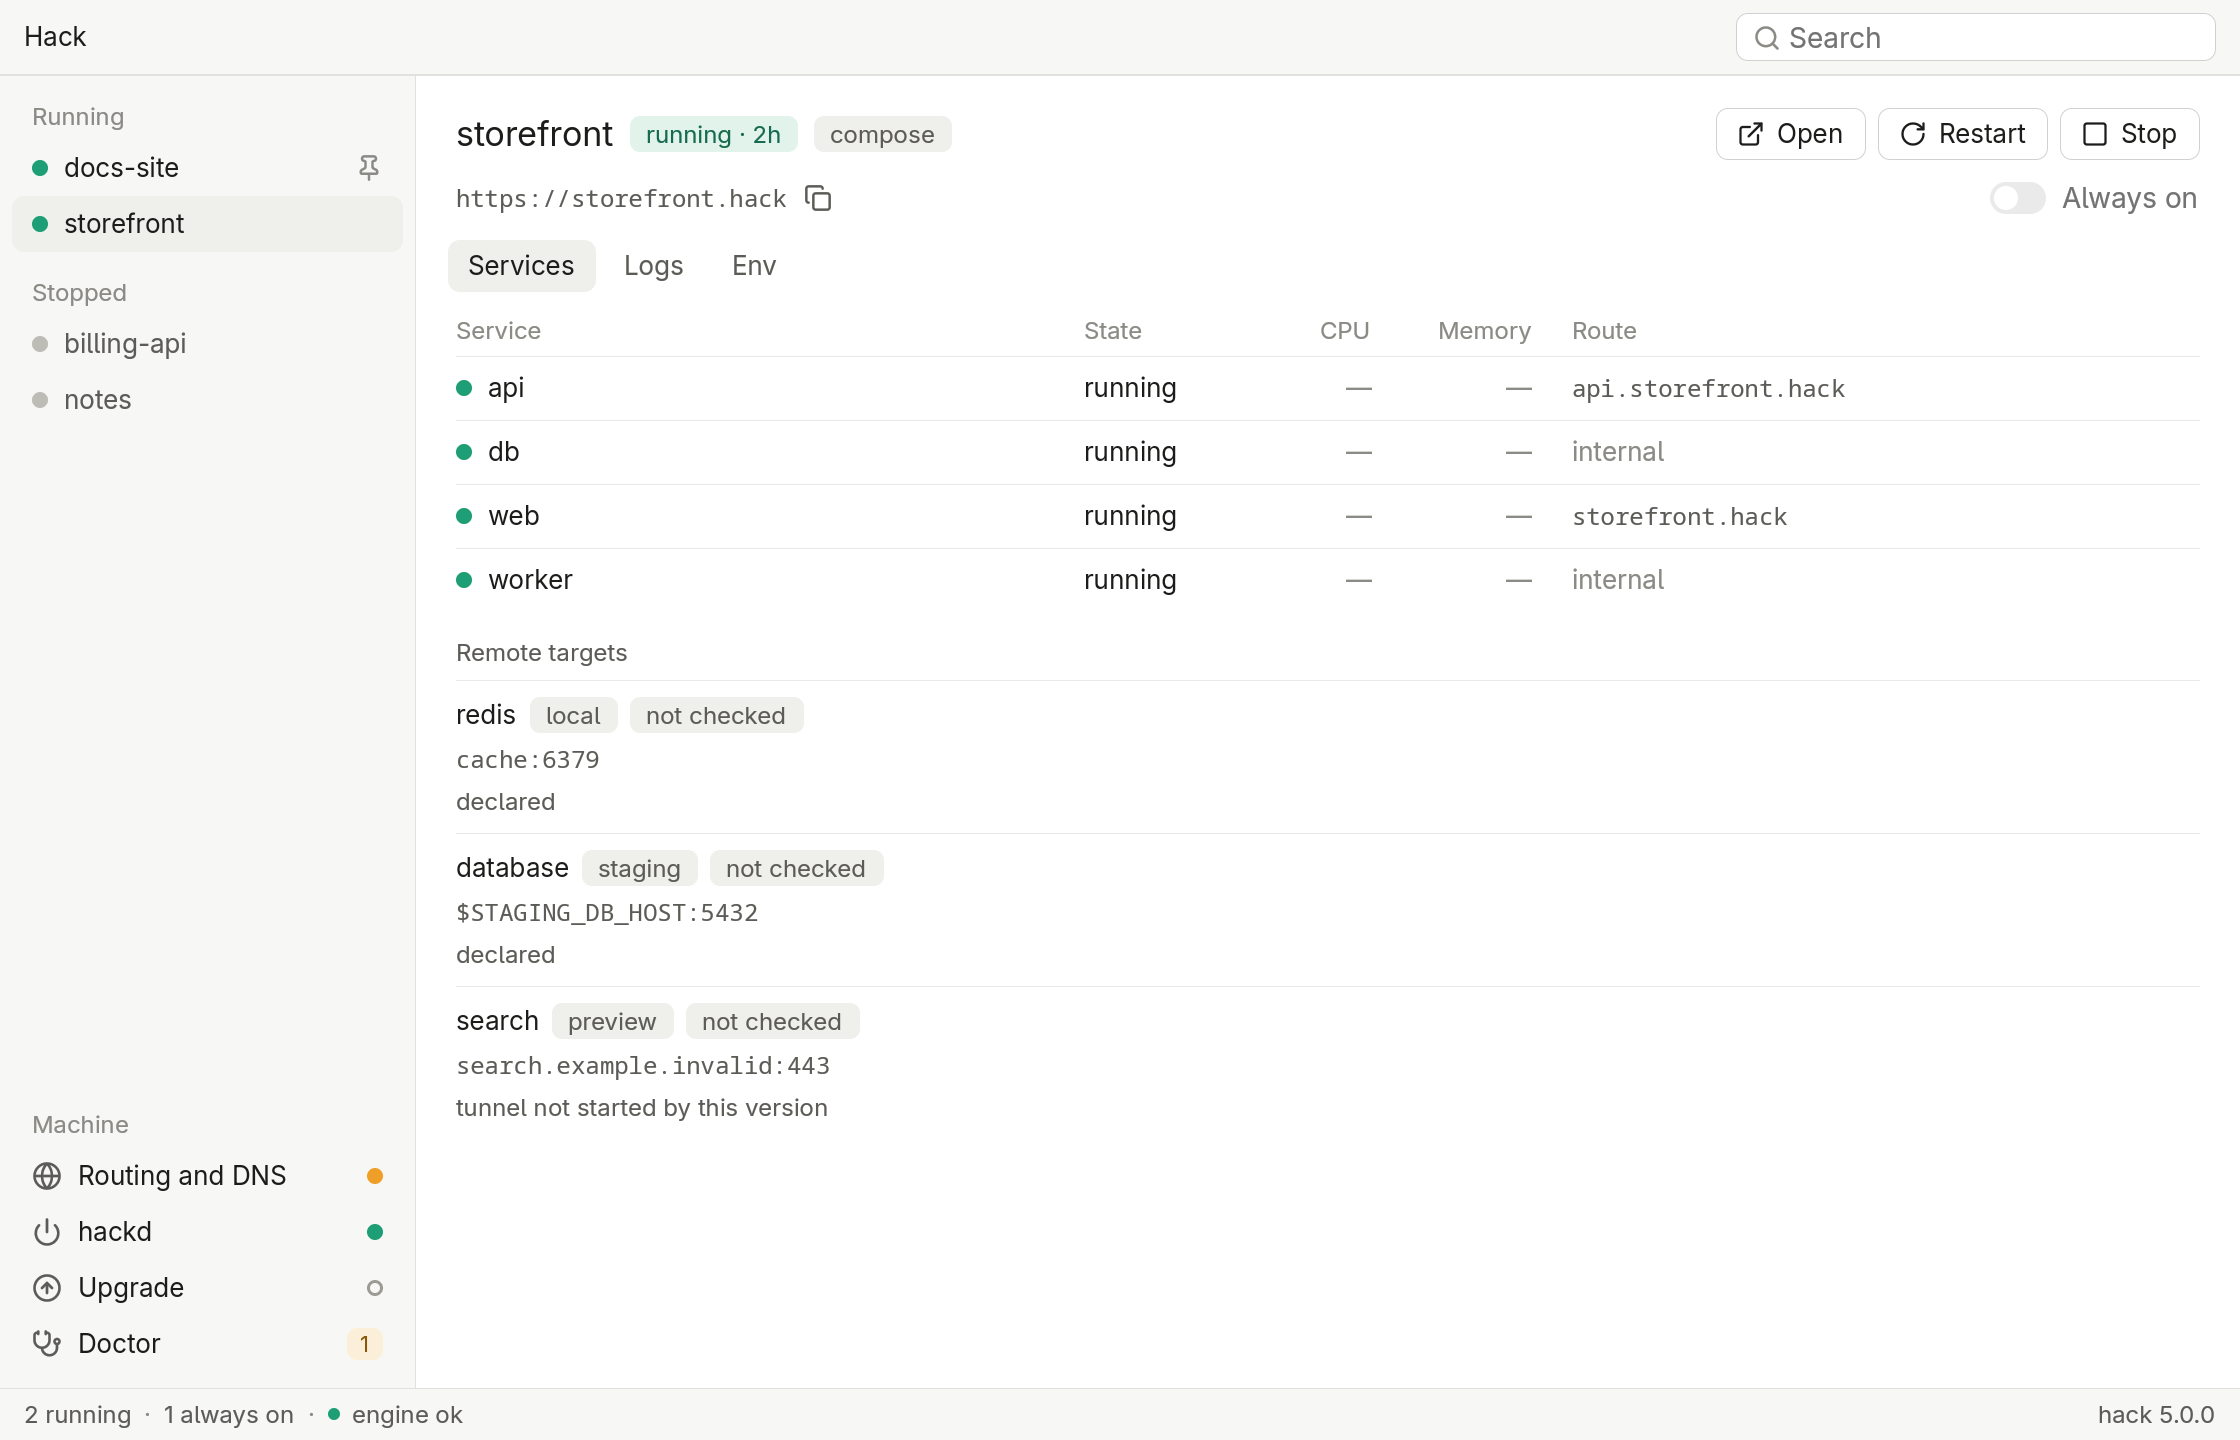
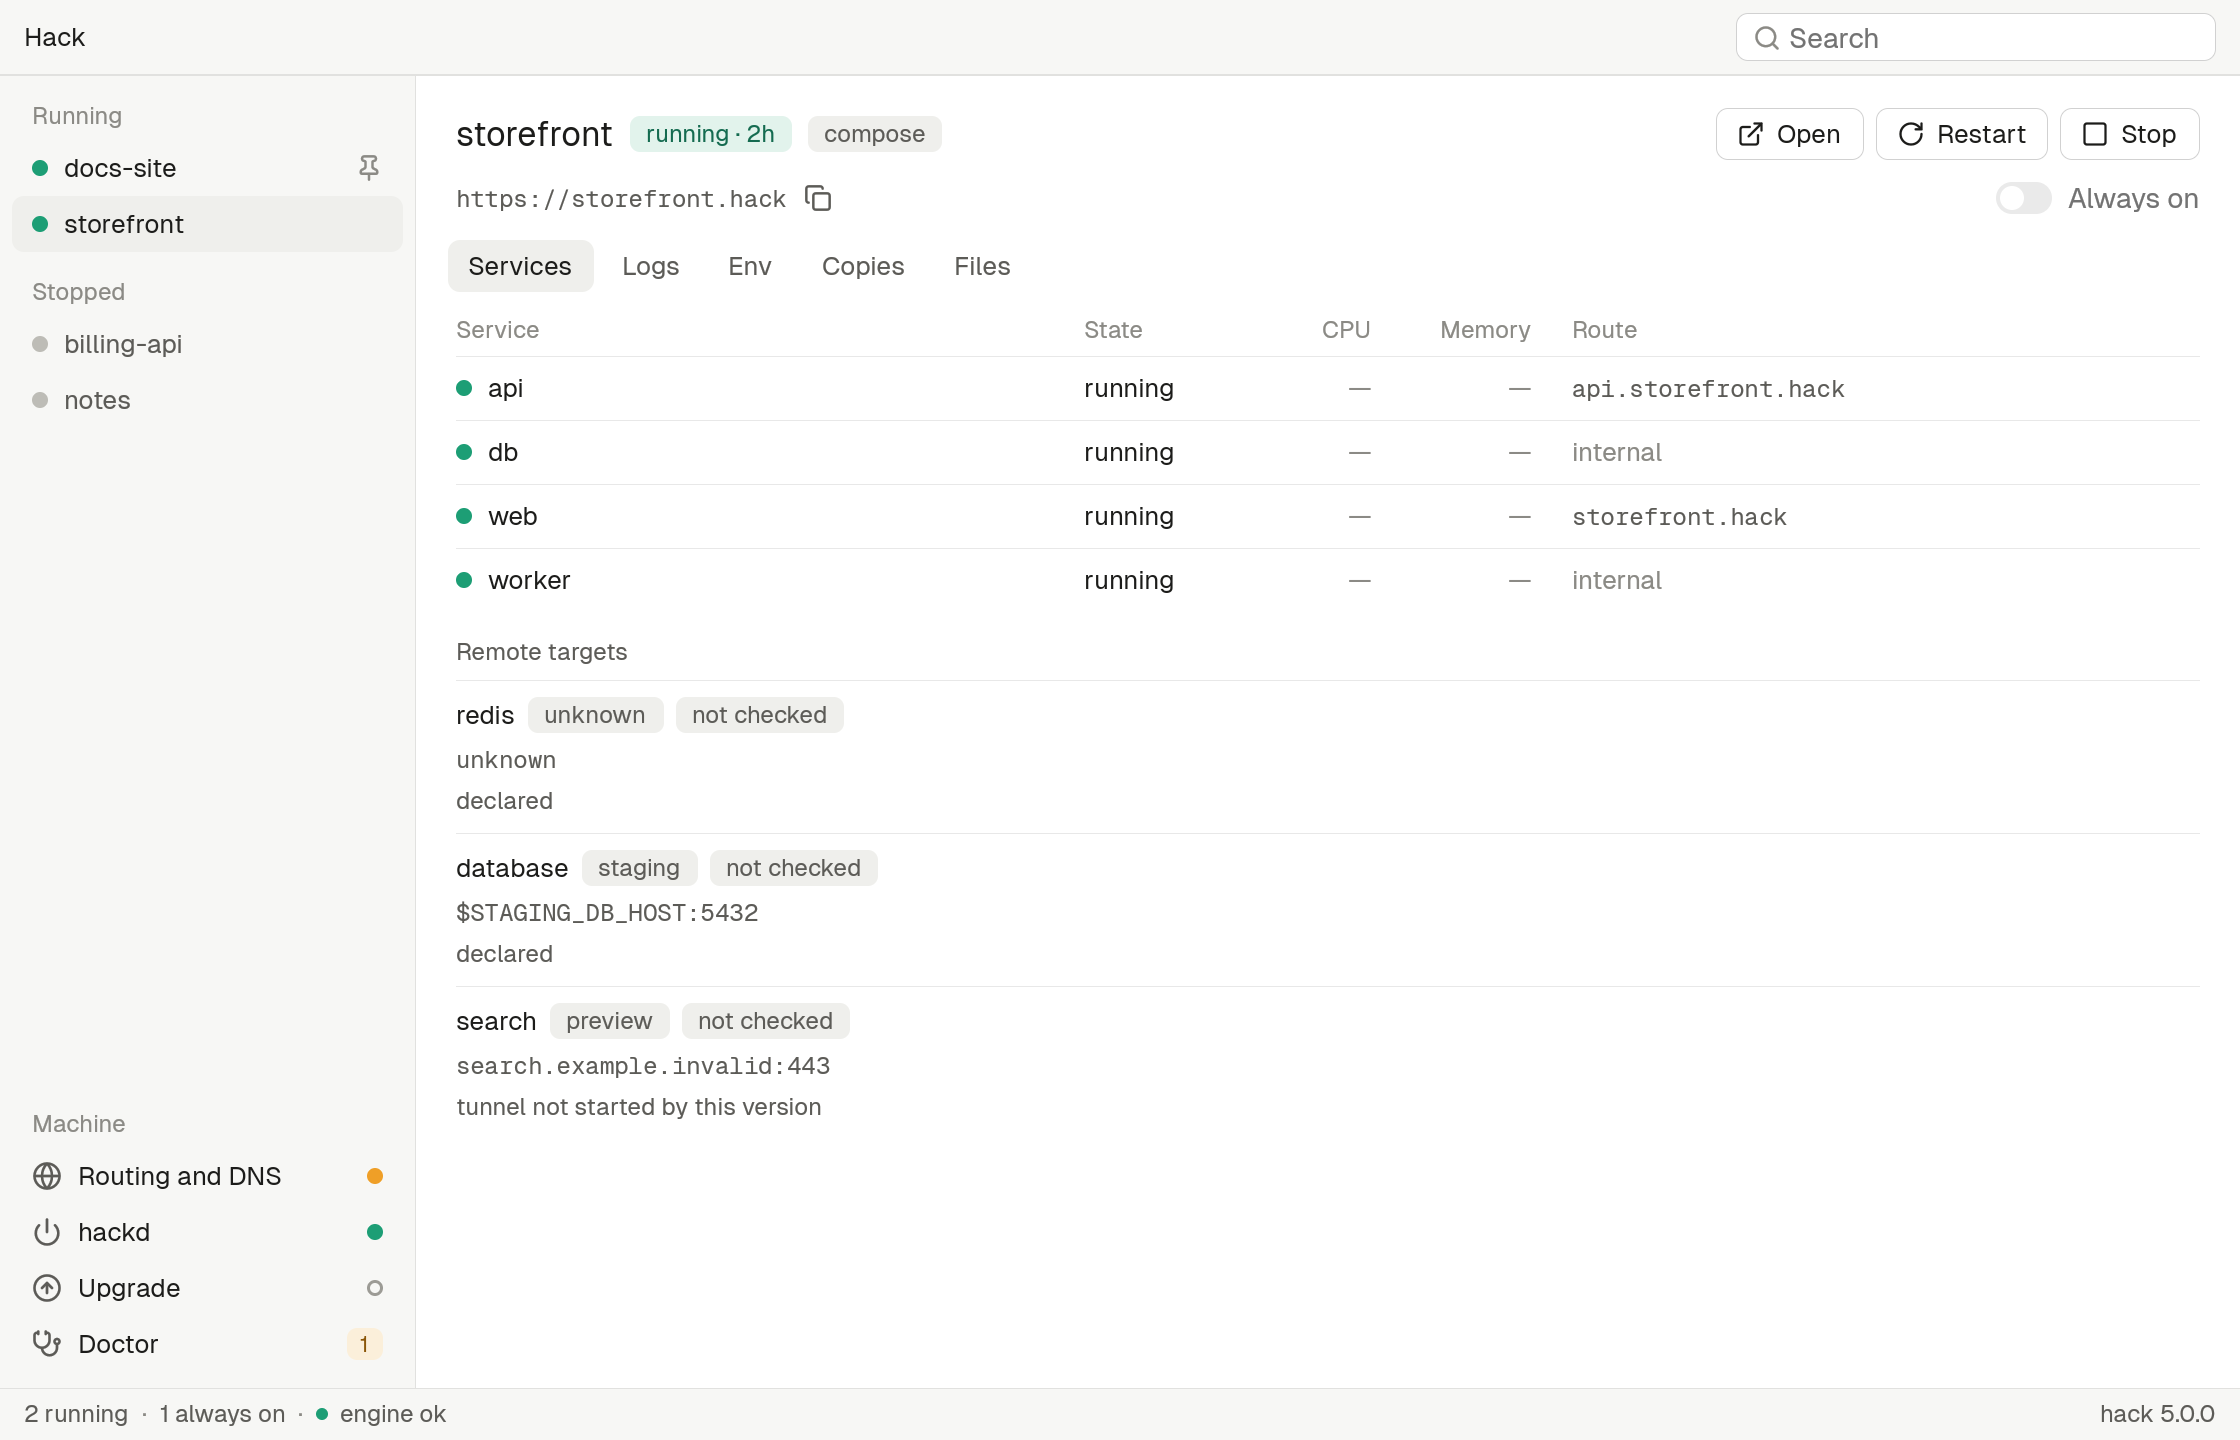
fix(desktop): accept nullable remote target addresses

diff --git a/apps/desktop/core/src/models.rs b/apps/desktop/core/src/models.rs
@@ -117,7 +117,7 @@ pub struct RemoteStatus {
     pub target: String,
     pub state: String,
     pub probe: String,
-    pub address: RemoteAddress,
+    pub address: Option<RemoteAddress>,
 }
 
 #[derive(Debug, Clone, PartialEq, Eq, Deserialize, Serialize)]
@@ -137,6 +137,15 @@ pub enum RemoteAddress {
     },
     #[serde(other)]
     Unknown,
+}
+
+impl RemoteStatus {
+    #[must_use]
+    pub fn address_label(&self) -> String {
+        self.address
+            .as_ref()
+            .map_or_else(|| "unknown".into(), RemoteAddress::label)
+    }
 }
 
 impl RemoteAddress {
@@ -710,6 +719,24 @@ impl CliError {
 #[cfg(test)]
 mod tests {
     use super::*;
+
+    #[test]
+    fn projects_accept_null_remote_addresses_from_the_daemon() {
+        let payload = ProjectsPayload::from_value(serde_json::json!({
+            "projects": [
+                { "name": "storefront", "remotes": [{
+                    "kind": "remote", "service": "db", "target": "unknown",
+                    "state": "declared", "probe": "not checked", "address": null
+                }] },
+                { "name": "docs-site" }
+            ]
+        }))
+        .unwrap();
+        assert_eq!(payload.projects.len(), 2);
+        let remote = &payload.projects[0].remotes[0];
+        assert!(remote.address.is_none());
+        assert_eq!(remote.address_label(), "unknown");
+    }
 
     #[test]
     fn container_status_parsing() {

diff --git a/apps/desktop/core/src/fixtures.rs b/apps/desktop/core/src/fixtures.rs
@@ -496,8 +496,8 @@ pub fn project(f: Fixture) -> ProjectsPayload {
         Fixture::Remotes => {
             let mut row = storefront(all_up(), "running");
             row.remotes = serde_json::from_str(r#"[
-              {"service":"redis","target":"local","state":"declared","probe":"not checked",
-               "address":{"kind":"service","service":"cache","port":6379}},
+              {"service":"redis","target":"unknown","state":"declared","probe":"not checked",
+               "address":null},
               {"service":"database","target":"staging","state":"declared","probe":"not checked",
                "address":{"kind":"env_ref","name":"STAGING_DB_HOST","port":5432}},
               {"service":"search","target":"preview","state":"tunnel not started by this version",

diff --git a/apps/desktop/core/src/viewmodel.rs b/apps/desktop/core/src/viewmodel.rs
@@ -1032,7 +1032,7 @@ mod tests {
         model.apply(Event::Refreshed(Ok(snap)));
         model.apply(Event::Select("storefront".into()));
         let detail = model.detail().unwrap();
-        assert_eq!(detail.remotes[0].address.label(), "$DB_HOST:5432");
+        assert_eq!(detail.remotes[0].address_label(), "$DB_HOST:5432");
         assert_eq!(detail.remotes[0].probe, "not checked");
         assert!(!format!("{detail:?}").contains("fixture-value"));
         model.apply(Event::SelectInstance(InstanceKey {

diff --git a/apps/desktop/app/src/view.rs b/apps/desktop/app/src/view.rs
@@ -1562,7 +1562,7 @@ impl HackApp {
                                 .type_step(text::MONO)
                                 .font_family(ui.mono.clone())
                                 .text_color(p.text_secondary)
-                                .child(remote.address.label()),
+                                .child(remote.address_label()),
                         )
                         .child(
                             div()
